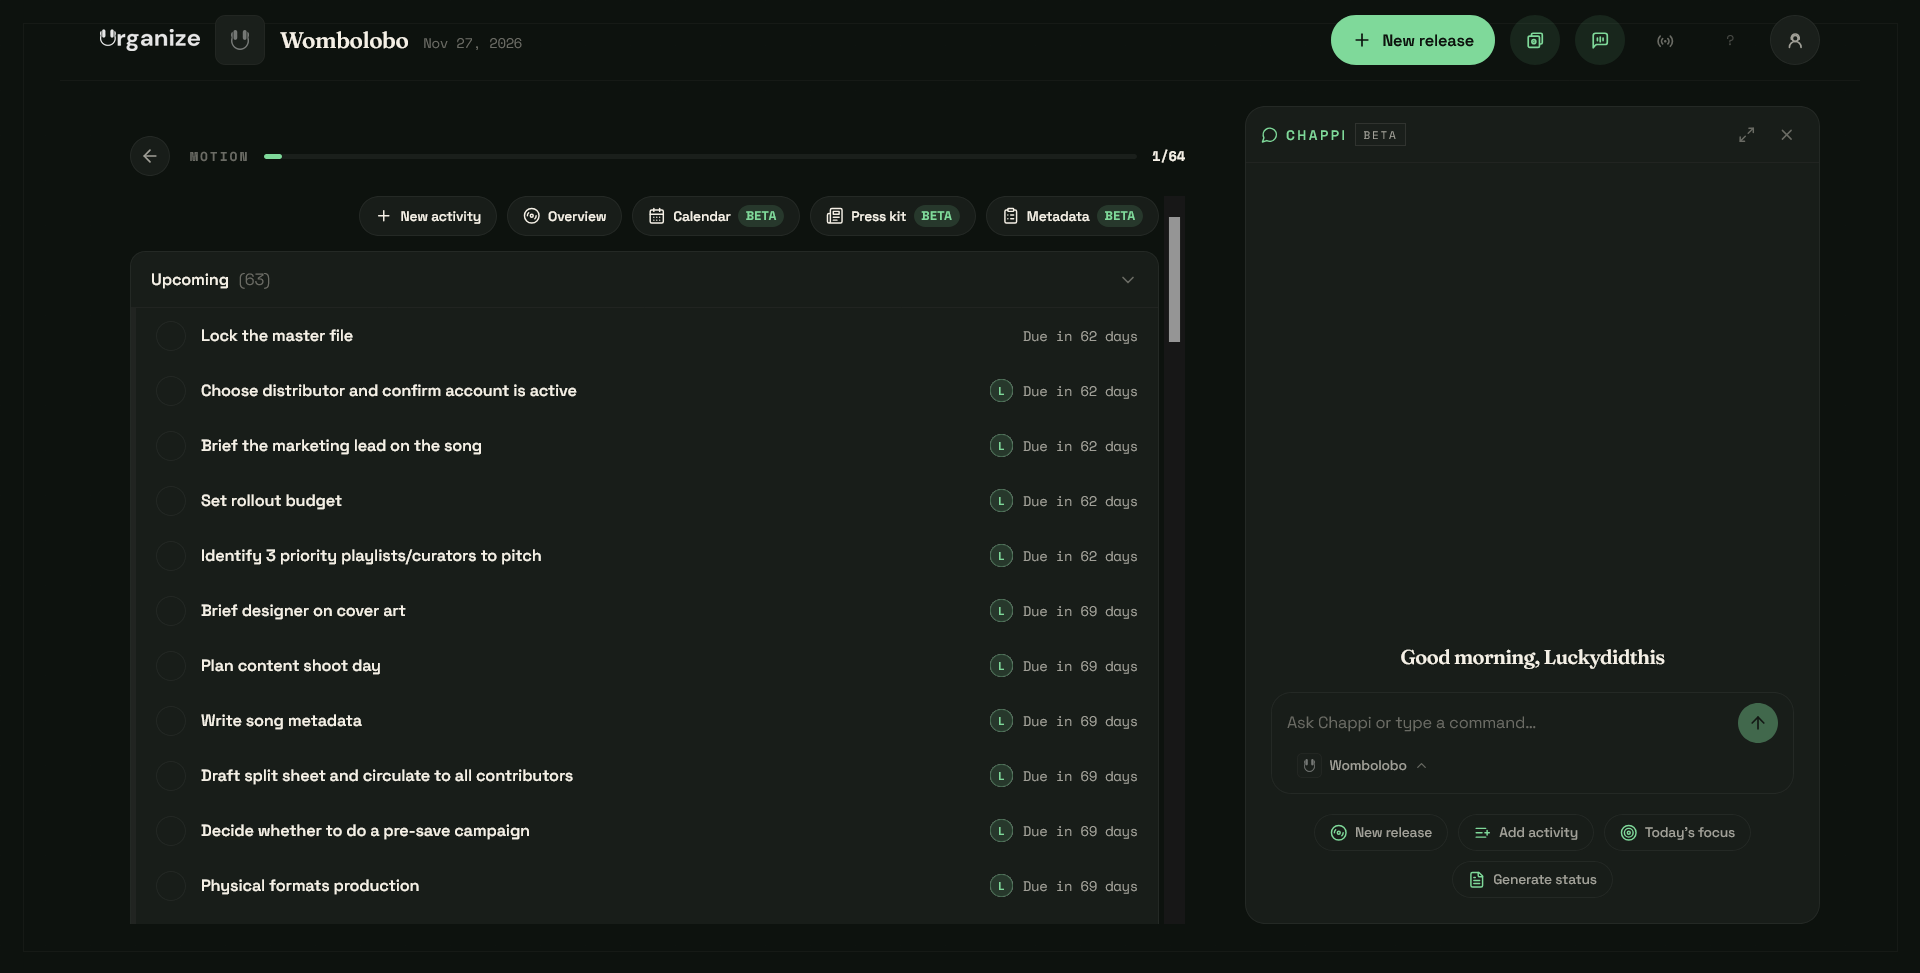
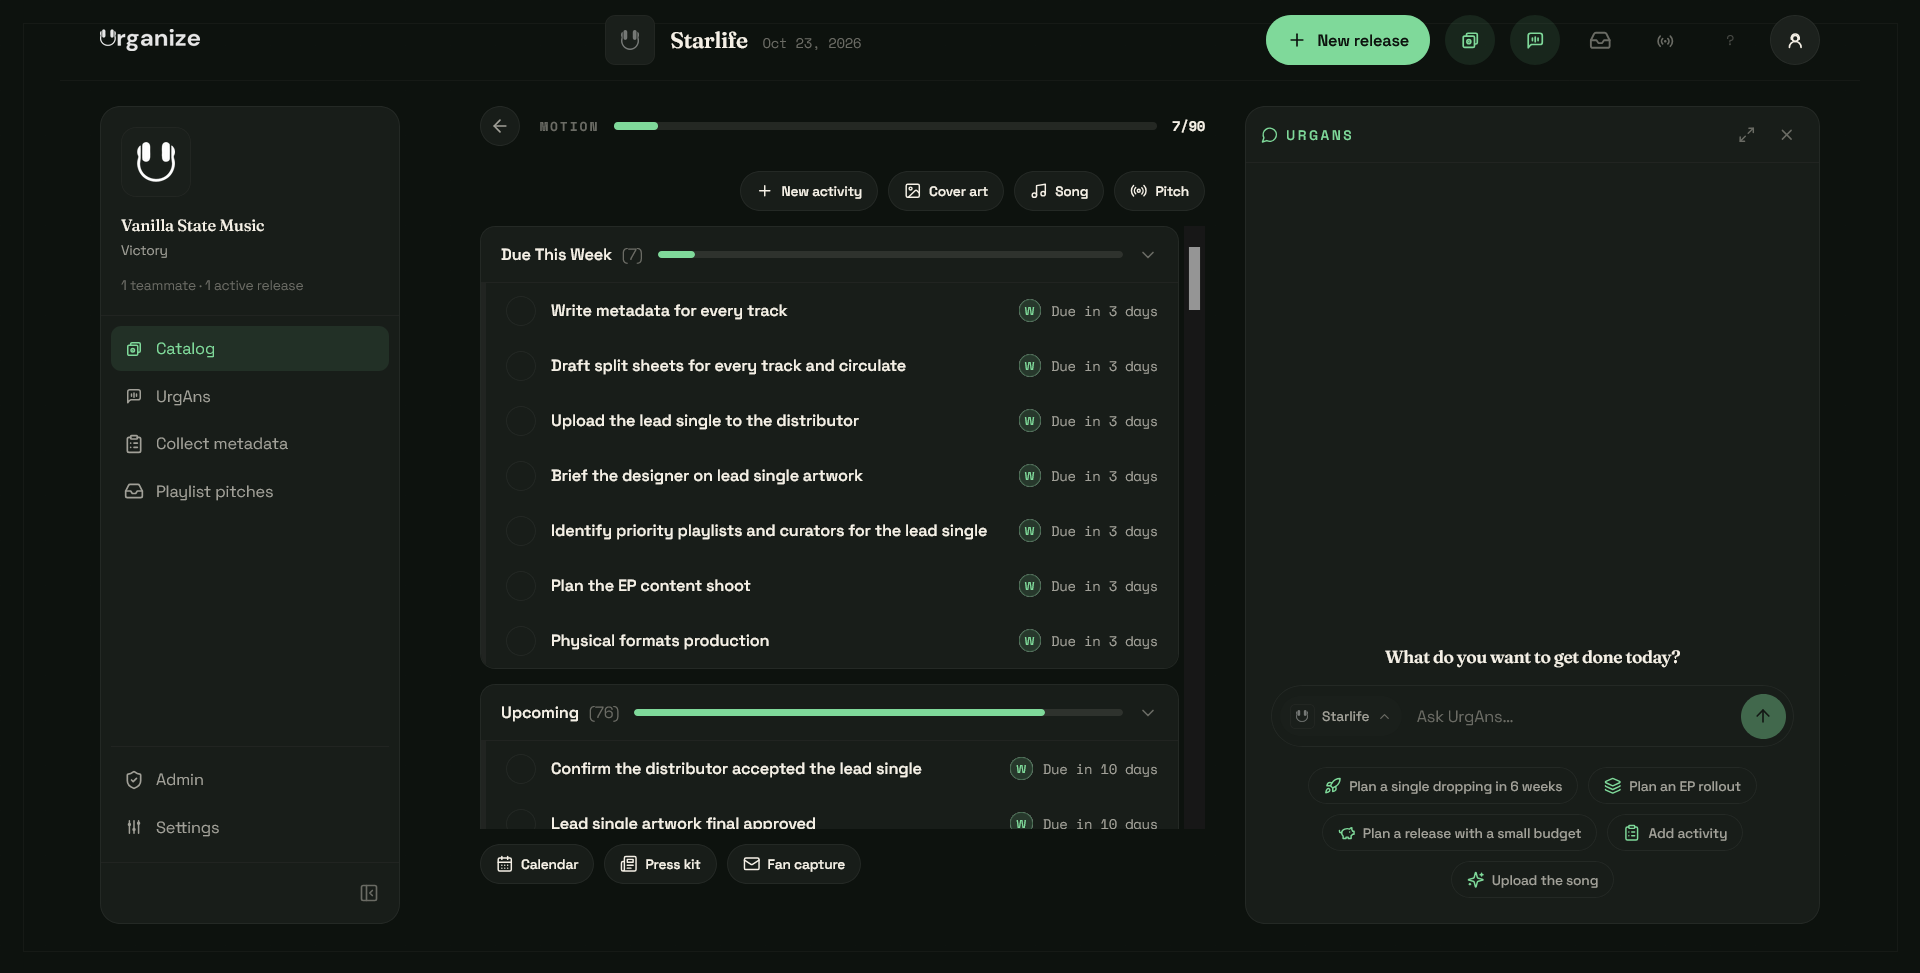
Retake the /features release screenshot in the current UI
Founder-supplied light and dark captures of the same release ("Starlife",
the 90-activity EP playbook) with the UrgAns rail open, replacing the
2026-08-01 shots that predated the identity card, the footer pills and
the Cover art/Song/Pitch controls. Alt text rewritten to describe what
the image now shows (Motion at 7 of 90, owned and dated activities, the
assistant alongside), and the declared height corrected to the files'
true 973px. /brand's asset downloads point at the same files and update
for free.

Claude-Session: https://claude.ai/code/session_01MQczVgCce93uKXe4TY2e8d

diff --git a/apps/homepage/app/features/page.tsx b/apps/homepage/app/features/page.tsx
@@ -42,14 +42,15 @@ const features = [
       "Edit or delete anything. It's your plan",
     ],
     // Real screenshot of the current release view (light and dark retaken
-    // together 2026-08-01, same release and scroll position in both). Same
-    // house rule as the landing page: if the UI changes meaningfully,
-    // retake BOTH the light and dark version — marketing imagery never
-    // lags the product.
+    // together 2026-08-25, founder-supplied, same release and scroll
+    // position in both — an EP, "Starlife", on the 90-activity EP playbook,
+    // with the UrgAns rail open). Same house rule as the landing page: if
+    // the UI changes meaningfully, retake BOTH the light and dark version —
+    // marketing imagery never lags the product.
     image: {
       src: "/images/product/workspace-tasks.png",
       darkSrc: "/images/product/workspace-tasks-dark.png",
-      alt: "A release open in Urganize: the progress bar at 1 of 64, the upcoming activities with owners and due dates on every row and the UrgAns assistant docked alongside them.",
+      alt: "A release open in Urganize: the Motion bar at 7 of 90, the week's activities each with an owner and a due date, and the UrgAns assistant open alongside asking what you want to get done today.",
     },
   },
 ] as const;
@@ -176,7 +177,7 @@ export default function FeaturesPage() {
                     dark={feature.image.darkSrc}
                     alt={feature.image.alt}
                     width={1920}
-                    height={970}
+                    height={973}
                     sizes="(min-width: 1088px) 1024px, 100vw"
                   />
                 </div>
